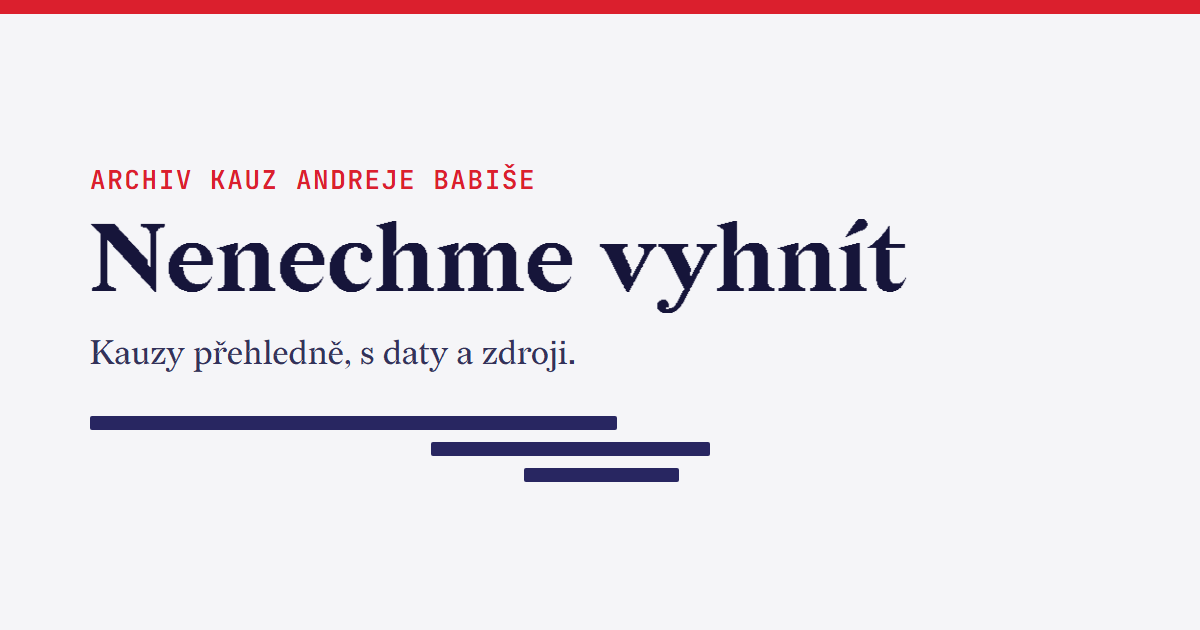
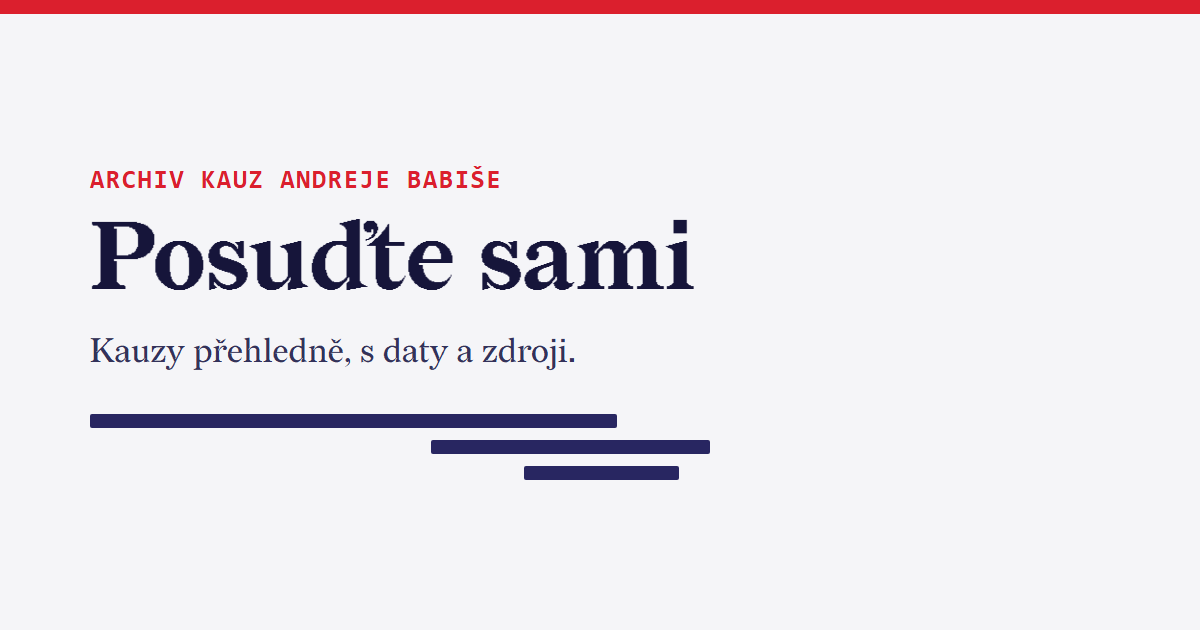
Přejmenování na Posuďte sami a doména posudtesami.cz (verze pro lokální main)
Projekt vystupuje pod názvem „Posuďte sami“ na doméně posudtesami.cz: hlavička, titulky stránek
včetně změn pravidel, náhled pro sdílení, licence a vysvětlení názvu v O projektu, autor
automatických commitů, CNAME, adresa webu v Astru, šablona návrhu kauzy, testy a dokumentace.
Stránka 404 má nadpis „Tahle stránka zapadla“. Test kostry hlídá, aby se starý název ani doména
do kódu nevrátily. GitHub účet, repozitář a kontaktní e-mail zatím nesou starý název.

diff --git a/src/data/o-projektu.ts b/src/data/o-projektu.ts
@@ -10,7 +10,7 @@ export const oProjektu = (sPravidly: boolean): { sekce: SekceStranky[] } => ({
       shrnuti: "Kauzy zapadají. Za půl roku si nikdo nepamatuje, co se stalo, a právě na to se spoléhá.",
       html: `<p>Každý týden přijde nová kauza, novela nebo rozhodnutí a ta předchozí zapadne. Za půl roku si ji pamatuje málokdo, za tři roky skoro nikdo.${sPravidly ? ' Proto archiv vedle kauz zapisuje i změny pravidel, u kterých rozbor archivu ukazuje prospěch pro Andreje Babiše nebo Agrofert, a změny, které mění kontrolu moci a na které upozornily instituce.' : ''}</p>
 <p>Myšlenka vzešla z rozhovoru v podcastu <em>Kecy a politika</em>: někdo by měl tyhle věci soustavně zapisovat a archivovat, jinak zmizí. Tento web se o to pokouší, přehledně, v čase a se zdrojem u každého tvrzení.</p>
-<p>Název odkazuje na rčení „nechat věc vyhnít“, tedy nechat ji ležet, dokud sama nevyšumí. Archiv drží kauzy na očích i potom, co zmizí ze zpráv.</p>`,
+<p>Název popisuje, jak archiv funguje. Nikomu neříká, co si má myslet. Ke každému tvrzení dává zdroj, ke každé kauze stanovisko dotčené strany a úsudek nechává na vás.</p>`,
     },
     {
       id: "kdo",
@@ -46,7 +46,7 @@ export const oProjektu = (sPravidly: boolean): { sekce: SekceStranky[] } => ({
       id: "licence",
       nadpis: "Sdílení a citace",
       shrnuti: "Texty archivu můžete volně sdílet a citovat s uvedením zdroje.",
-      html: `<p>Texty archivu jsou pod licencí <strong>Creative Commons Uveďte původ 4.0</strong>. Můžete je sdílet, citovat i dál zpracovávat, stačí uvést „Nenechme vyhnít“ a odkaz.</p>
+      html: `<p>Texty archivu jsou pod licencí <strong>Creative Commons Uveďte původ 4.0</strong>. Můžete je sdílet, citovat i dál zpracovávat, stačí uvést „Posuďte sami“ a odkaz.</p>
 <p>Citované články a dokumenty patří svým autorům, odkazujeme na ně. Portrét na hlavní stránce: Vox España, Wikimedia Commons, licence CC0.</p>`,
     },
     {

diff --git a/tests/unit/kostra.test.ts b/tests/unit/kostra.test.ts
@@ -1,8 +1,27 @@
 import { describe, it, expect } from 'vitest';
-import { readFileSync } from 'node:fs';
+import { readFileSync, readdirSync, statSync } from 'node:fs';
+import { join } from 'node:path';
+
+// Projekt se 13. 11. 2026 přejmenoval z „Nenechme vyhnít“ (nenechmevyhnit.cz) na „Posuďte sami“ (posudtesami.cz).
+// GitHub účet, repozitář a kontaktní e-mail zatím nesou starý název, proto adresy repozitáře a e-mailu test nehlídá.
+const STARY_NAZEV = /nenechme\s+vyhn/i;
+const STARA_DOMENA = /(?<!nenechmevyhnit\/)nenechmevyhnit\.cz/;
+const BINARNI = /\.(png|webp|jpe?g|gif|ico|woff2?|ttf|otf|pdf)$/i;
+
+const soubory = (cesta: string): string[] => statSync(cesta).isFile()
+  ? [cesta]
+  : readdirSync(cesta, { recursive: true, encoding: 'utf8' }).map(f => join(cesta, f)).filter(f => statSync(f).isFile());
 
 describe('kostra', () => {
   it('CNAME obsahuje doménu', () => {
-    expect(readFileSync('public/CNAME', 'utf8').trim()).toBe('nenechmevyhnit.cz');
+    expect(readFileSync('public/CNAME', 'utf8').trim()).toBe('posudtesami.cz');
+  });
+
+  it('starý název projektu ani stará doména nikde nezůstaly', () => {
+    const nalezy = ['src', 'public', 'tests', 'nastroje', 'scripts', '.github', 'astro.config.mjs', 'package.json']
+      .flatMap(soubory)
+      .filter(f => !BINARNI.test(f) && !f.endsWith('kostra.test.ts'))
+      .filter(f => { const text = readFileSync(f, 'utf8'); return STARY_NAZEV.test(text) || STARA_DOMENA.test(text); });
+    expect(nalezy).toEqual([]);
   });
 });

diff --git a/tests/e2e/pravidla-detail.spec.ts b/tests/e2e/pravidla-detail.spec.ts
@@ -9,8 +9,8 @@ test('přímá adresa otevře detail pravidla s vlastním náhledem', async ({ p
   const dlg = page.locator('dialog#detail');
   await expect(dlg).toBeVisible();
   await expect(dlg.getByRole('heading', { level: 2 })).toHaveText(OMEGA);
-  await expect(page).toHaveTitle(`${OMEGA} — Nenechme vyhnít`);
-  await expect(page.locator('meta[property="og:url"]')).toHaveAttribute('content', 'https://nenechmevyhnit.cz/pravidla/zakon-omega/');
+  await expect(page).toHaveTitle(`${OMEGA} — Posuďte sami`);
+  await expect(page.locator('meta[property="og:url"]')).toHaveAttribute('content', 'https://posudtesami.cz/pravidla/zakon-omega/');
   await expect(dlg.locator('.m2-hlava .roky')).toHaveText('Poslanecký návrh zákona · Schváleno Sněmovnou');
   await expect(page.locator('.pr-radek[data-slug="zakon-omega"]')).toHaveClass(/vybrany/);
   await overBezPosouvani(page);
@@ -115,7 +115,7 @@ test('z přehledu se detail otevře bez načtení stránky a zavřením se adres
   expect(await page.evaluate(() => (window as any).bezNacteni)).toBe(true);
   await page.getByRole('button', { name: 'Zavřít detail' }).click();
   await expect(page).toHaveURL(/\/pravidla\/$/);
-  await expect(page).toHaveTitle('Změny pravidel — Nenechme vyhnít');
+  await expect(page).toHaveTitle('Změny pravidel — Posuďte sami');
   await expect(page.locator('.pr-radek.vybrany')).toHaveCount(0);
   await page.goBack();
   await expect(page).toHaveURL(/\/pravidla\/narizeni-tau\/$/);

diff --git a/tests/e2e/detail.spec.ts b/tests/e2e/detail.spec.ts
@@ -8,8 +8,8 @@ test('přímá adresa otevře detail s vlastním náhledem', async ({ page }) =>
   const dlg = page.locator('dialog#detail');
   await expect(dlg).toBeVisible();
   await expect(dlg.getByRole('heading', { level: 2 })).toHaveText('Testovací kauza Alfa');
-  await expect(page).toHaveTitle('Testovací kauza Alfa — Nenechme vyhnít');
-  await expect(page.locator('meta[property="og:url"]')).toHaveAttribute('content', 'https://nenechmevyhnit.cz/kauzy/alfa-dotace/');
+  await expect(page).toHaveTitle('Testovací kauza Alfa — Posuďte sami');
+  await expect(page.locator('meta[property="og:url"]')).toHaveAttribute('content', 'https://posudtesami.cz/kauzy/alfa-dotace/');
   await expect(page.locator('#graf')).toHaveAttribute('data-vybrano', 'alfa-dotace');
   await overBezPosouvani(page);
 });
@@ -105,7 +105,7 @@ test('stav a stanovisko', async ({ page }) => {
 test('neexistující kauza vrátí stránku 404', async ({ page }) => {
   const odpoved = await page.goto('/kauzy/neexistuje/');
   expect(odpoved?.status()).toBe(404);
-  await expect(page.getByRole('heading', { level: 1 })).toHaveText('Tahle stránka vyhnila');
+  await expect(page.getByRole('heading', { level: 1 })).toHaveText('Tahle stránka zapadla');
 });
 
 test('vyjádření dotčené strany je ve zdrojích označené jako stanovisko, ne jako primární zdroj', async ({ page }) => {

diff --git a/tests/e2e/zaklad.spec.ts b/tests/e2e/zaklad.spec.ts
@@ -6,9 +6,9 @@ test('hlavička, jazyk a žádné cizí požadavky', async ({ page }) => {
   page.on('request', r => { if (!r.url().startsWith('http://localhost')) cizi.push(r.url()); });
   await page.goto('/');
   await expect(page.locator('html')).toHaveAttribute('lang', 'cs');
-  await expect(page.getByRole('link', { name: 'Nenechme vyhnít' })).toBeVisible();
+  await expect(page.getByRole('link', { name: 'Posuďte sami' })).toBeVisible();
   await expect(page.getByRole('navigation').getByRole('link', { name: 'Metodika' })).toHaveAttribute('href', '/metodika/');
-  await expect(page.locator('meta[property="og:image"]')).toHaveAttribute('content', 'https://nenechmevyhnit.cz/obrazky/nahled.png');
+  await expect(page.locator('meta[property="og:image"]')).toHaveAttribute('content', 'https://posudtesami.cz/obrazky/nahled.png');
   expect(cizi).toEqual([]);
   await overBezPosouvani(page);
 });

diff --git a/src/scripts/navigace.ts b/src/scripts/navigace.ts
@@ -3,7 +3,7 @@ import { vyberKauzu } from './osa';
 import { nastavPohled, aktualniPohled } from './mapa';
 
 const mezipamet = new Map<string, { html: string; trida: string; titulek: string }>();
-const TITULEK_HLAVNI = 'Archiv kauz Andreje Babiše — Nenechme vyhnít';
+const TITULEK_HLAVNI = 'Archiv kauz Andreje Babiše — Posuďte sami';
 let zaviramZHistorie = false;
 
 const dialog = () => document.getElementById('detail') as HTMLDialogElement;

diff --git a/src/scripts/navigace-pravidel.ts b/src/scripts/navigace-pravidel.ts
@@ -1,7 +1,7 @@
 import { inicializujDetail } from './detail';
 
 /** Otevírání detailu pravidla bez načítání stránky (obdoba navigace.ts pro kauzy, bez osy a mapy). */
-const TITULEK = 'Změny pravidel — Nenechme vyhnít';
+const TITULEK = 'Změny pravidel — Posuďte sami';
 const mezipamet = new Map<string, { html: string; trida: string; titulek: string }>();
 let zaviramZHistorie = false;
 

diff --git a/docs/superpowers/specs/2026-11-10-nenechme-vyhnit-design.md b/docs/superpowers/specs/2026-11-10-nenechme-vyhnit-design.md
@@ -1,4 +1,4 @@
-# Nenechme vyhnít — specifikace v1
+# Posuďte sami — specifikace v1
 
 *Archiv kauz Andreje Babiše přehledně, s daty a zdroji.*
 Stav: schválený design (brainstorming 10. 11. 2026). Prototypy všech obrazovek jsou v `design/03-detail/`.
@@ -22,12 +22,12 @@ Web je úspěšný, když:
 
 ## 3. Identita a anonymita (pevná pravidla)
 
-- Projekt vystupuje pod názvem *Nenechme vyhnít*. Na webu ani v repozitáři nesmí být osobní údaje provozovatele.
-- Web běží na vlastní doméně **`https://nenechmevyhnit.cz`** (GitHub Pages s vlastní doménou; `www.nenechmevyhnit.cz` přesměrovává na hlavní adresu). Doména musí být v GitHubu ověřená (Settings → Pages → Verified domains), aby ji nikdo nemohl převzít, a HTTPS je vynucené. Do buildu patří soubor `CNAME` s doménou.
+- Projekt vystupuje pod názvem *Posuďte sami* (do 13. 11. 2026 *Nenechme vyhnít*). Na webu ani v repozitáři nesmí být osobní údaje provozovatele.
+- Web běží na vlastní doméně **`https://posudtesami.cz`** (GitHub Pages s vlastní doménou; `www.posudtesami.cz` přesměrovává na hlavní adresu). Doména musí být v GitHubu ověřená (Settings → Pages → Verified domains), aby ji nikdo nemohl převzít, a HTTPS je vynucené. Do buildu patří soubor `CNAME` s doménou.
 - GitHub účet `nenechmevyhnit`. Název repozitáře nemá s vlastní doménou na adresu vliv. Výchozí název je `nenechmevyhnit.cz`.
 - Doménu si provozovatel registruje sám. Při registraci zvolí skrytí osobních údajů ve veřejném WHOIS. Registrátor a CZ.NIC jeho identitu znají, takže anonymita vůči úřadům ani soudům není absolutní.
 - Kontakt `nenechmevyhnit@gmail.com`.
-- Lokální git identita jen pro tento repozitář: jméno „Nenechme vyhnít“ a noreply e-mail GitHubu. Nastaví se před prvním commitem.
+- Lokální git identita jen pro tento repozitář: jméno „Posuďte sami“ a noreply e-mail GitHubu. Nastaví se před prvním commitem.
 - Push přes samostatný SSH klíč s aliasem hostitele `github-nenechme`, nikdy přes uložené přihlášení osobního účtu.
 - Repozitář je samostatný, mimo nadřazený osobní repozitář `Projects`.
 - Neověřené koncepty kauz nejsou nikdy veřejné. Leží v `_koncepty/`, které je v `.gitignore`.

diff --git a/docs/spusteni.md b/docs/spusteni.md
@@ -1,11 +1,14 @@
 # Kontrolní seznam před spuštěním
 
 - [ ] Aspoň 5 ověřených kauz v `obsah/kauzy/` (každý zdroj otevřel a ověřil člověk)
-- [ ] Údaje držitele domény skryté ve WHOIS (kontakt bez vyplněné organizace; ověřit na https://rdap.nic.cz/entity/<id kontaktu>)
+- [ ] Údaje držitele domény `posudtesami.cz` skryté ve WHOIS (kontakt bez vyplněné organizace; ověřit na https://rdap.nic.cz/entity/<id kontaktu>)
 - [ ] Portrét pečlivě vyříznutý ručně (vlasy), nahradit `public/obrazky/portret.webp`
 - [ ] Krátké právní ověření (podobizna, texty kauz)
-- [ ] DNS u Webglobe: A záznamy 185.199.108.153, 185.199.109.153, 185.199.110.153, 185.199.111.153; AAAA 2606:50c0:8000::153 až 8003::153; `www` CNAME na `nenechmevyhnit.github.io`
-- [ ] GitHub: Settings → Pages → Verified domains → ověřit `nenechmevyhnit.cz` (TXT záznam), Source = GitHub Actions, Custom domain = `nenechmevyhnit.cz`, Enforce HTTPS
+- [ ] DNS domény `posudtesami.cz` u Webglobe: A záznamy 185.199.108.153, 185.199.109.153, 185.199.110.153, 185.199.111.153; AAAA 2606:50c0:8000::153 až 8003::153; `www` CNAME na `nenechmevyhnit.github.io` (adresa GitHub účtu, s doménou nesouvisí)
+- [ ] GitHub: Settings → Pages → Verified domains → ověřit `posudtesami.cz` (TXT záznam), Source = GitHub Actions, Custom domain = `posudtesami.cz`, Enforce HTTPS
+- [ ] Kontaktní e-mail s novým názvem místo `nenechmevyhnit@gmail.com` (web, `.github/ISSUE_TEMPLATE/config.yml`)
+- [ ] Stará doména `nenechmevyhnit.cz`: přesměrovat na `posudtesami.cz`, nebo nechat propadnout
 - [ ] Proměnná repozitáře `NASAZOVAT=ano`
 - [ ] Všechny kontroly v Actions zelené
 - [x] Ochrana větve `main` a nastavení repozitáře (ruleset, jen merge commity, Actions smí zakládat PR) — `nastroje/nastav-github.sh`, nastaveno 10. 11. 2026
+- [x] Přejmenování na *Posuďte sami* a doména `posudtesami.cz` v kódu (13. 11. 2026)
